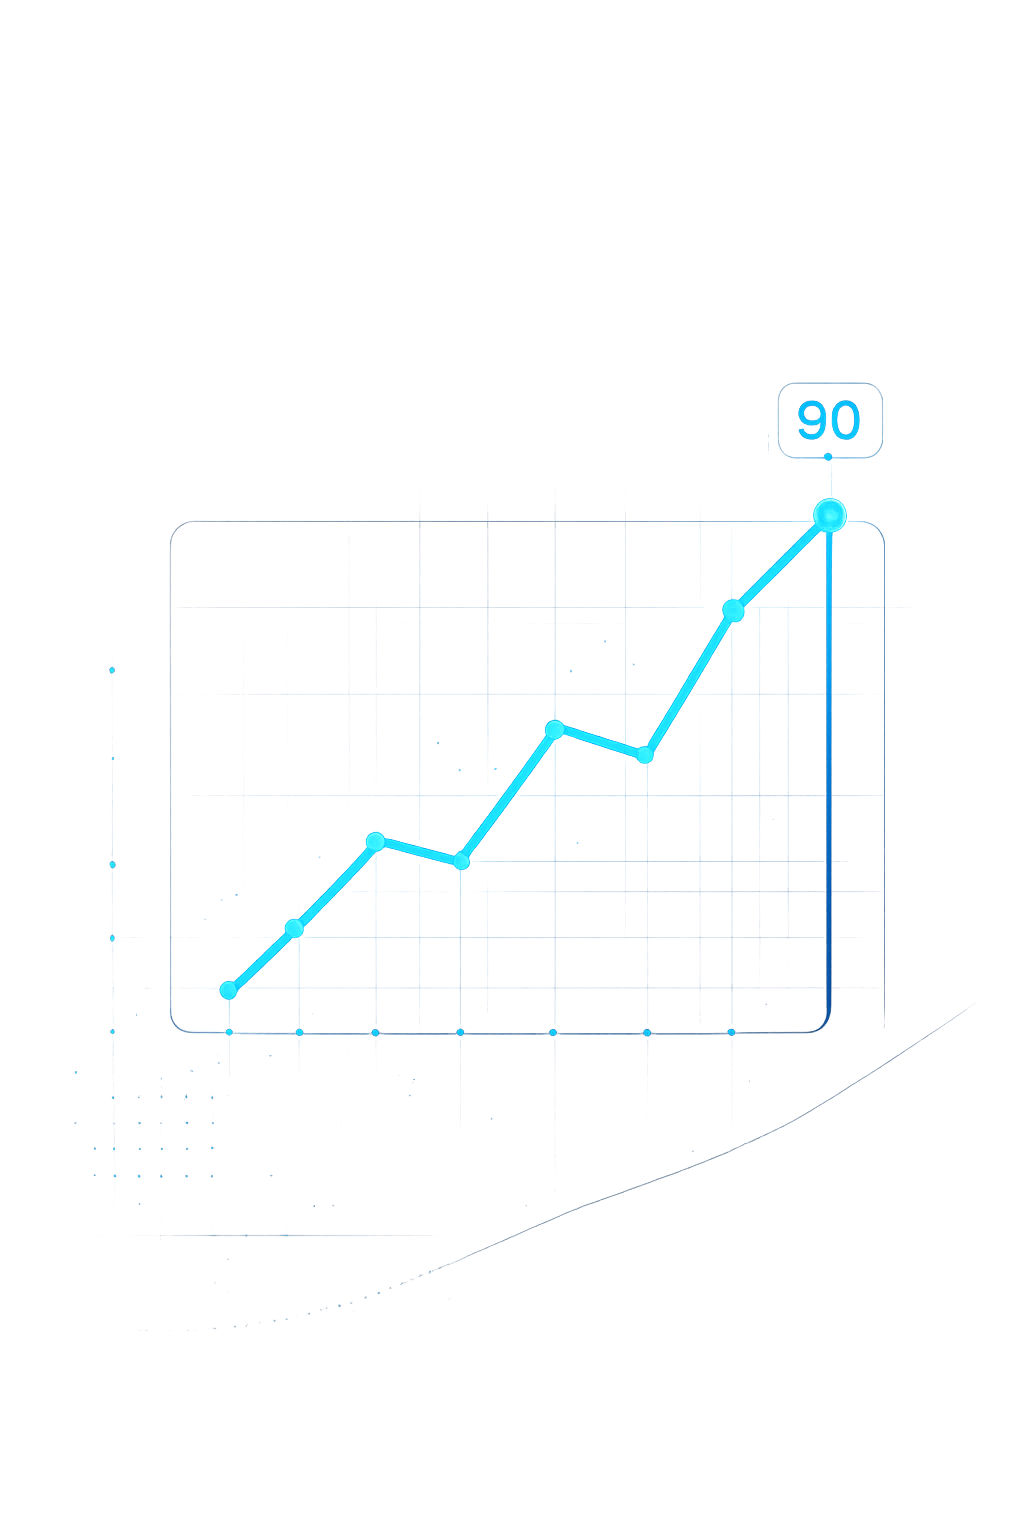
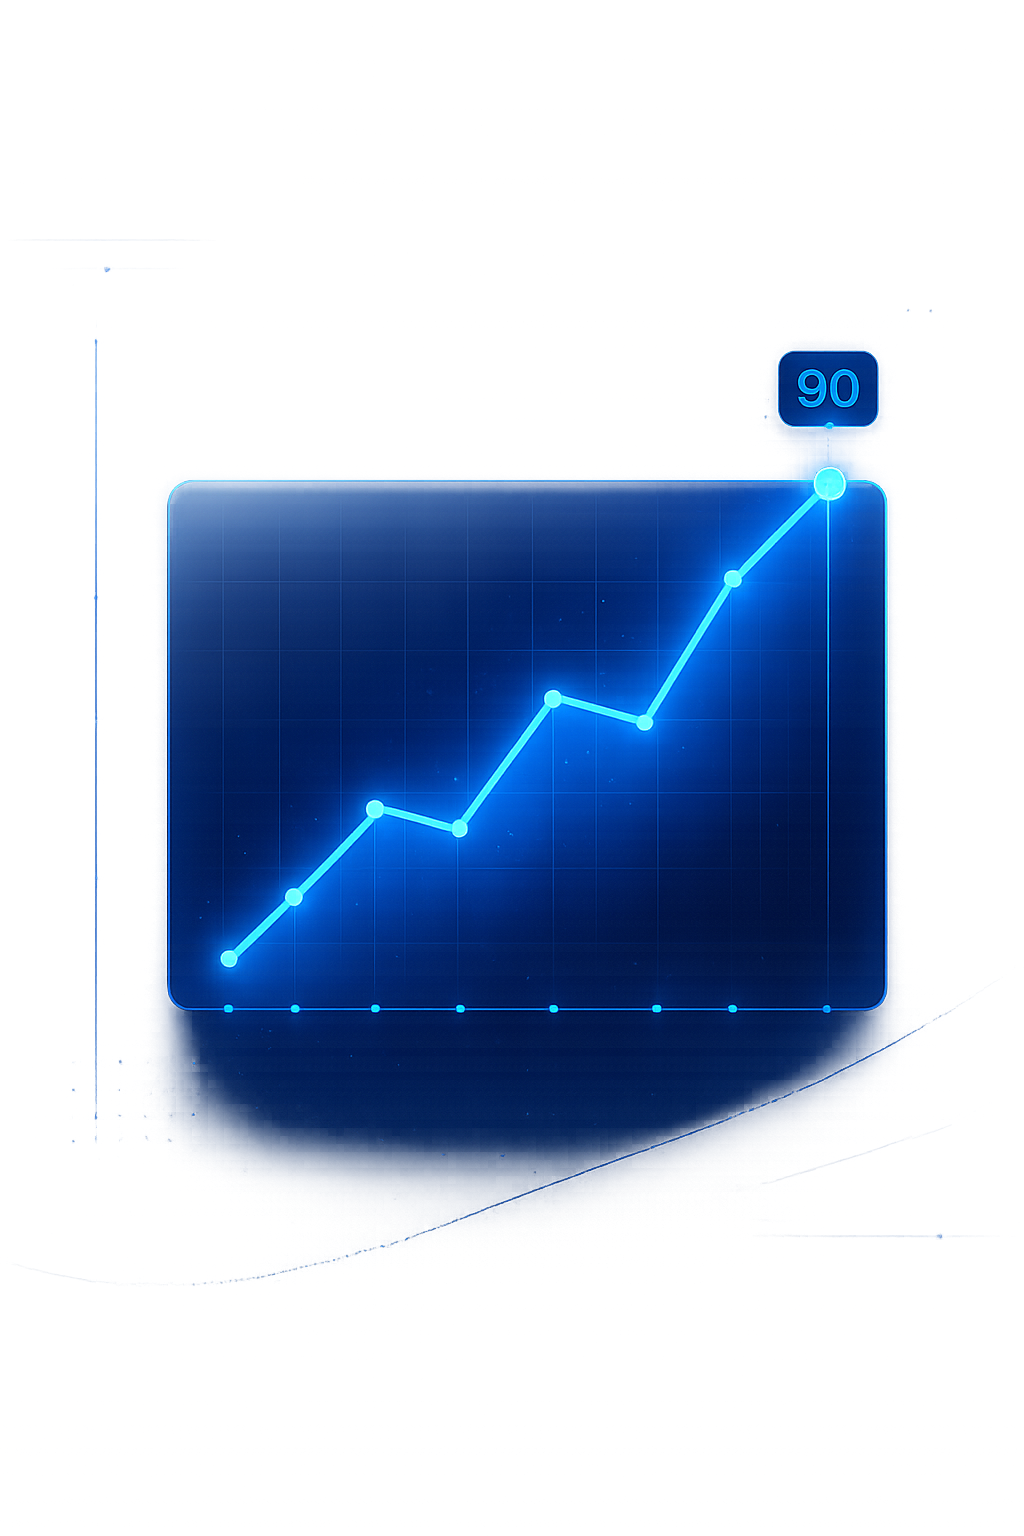
nogger

diff --git a/src/App.tsx b/src/App.tsx
@@ -995,7 +995,7 @@ if (screen === "onboarding") {
 
     <div
   style={
-    introStep === 1
+    introStep === 1 || introStep === 2
       ? {
           flex: 1,
           display: "flex",
@@ -1012,7 +1012,7 @@ if (screen === "onboarding") {
   alt="onboarding"
   style={{
     ...onboardingMockupImageStyle,
-    width: introStep === 1 ? 460 : introStep === 2 ? 360 : 300,
+    width: introStep === 1 ? 460 : introStep === 2 ? 520 : 300,
     height: "auto",
     objectFit: "contain"
   }}
